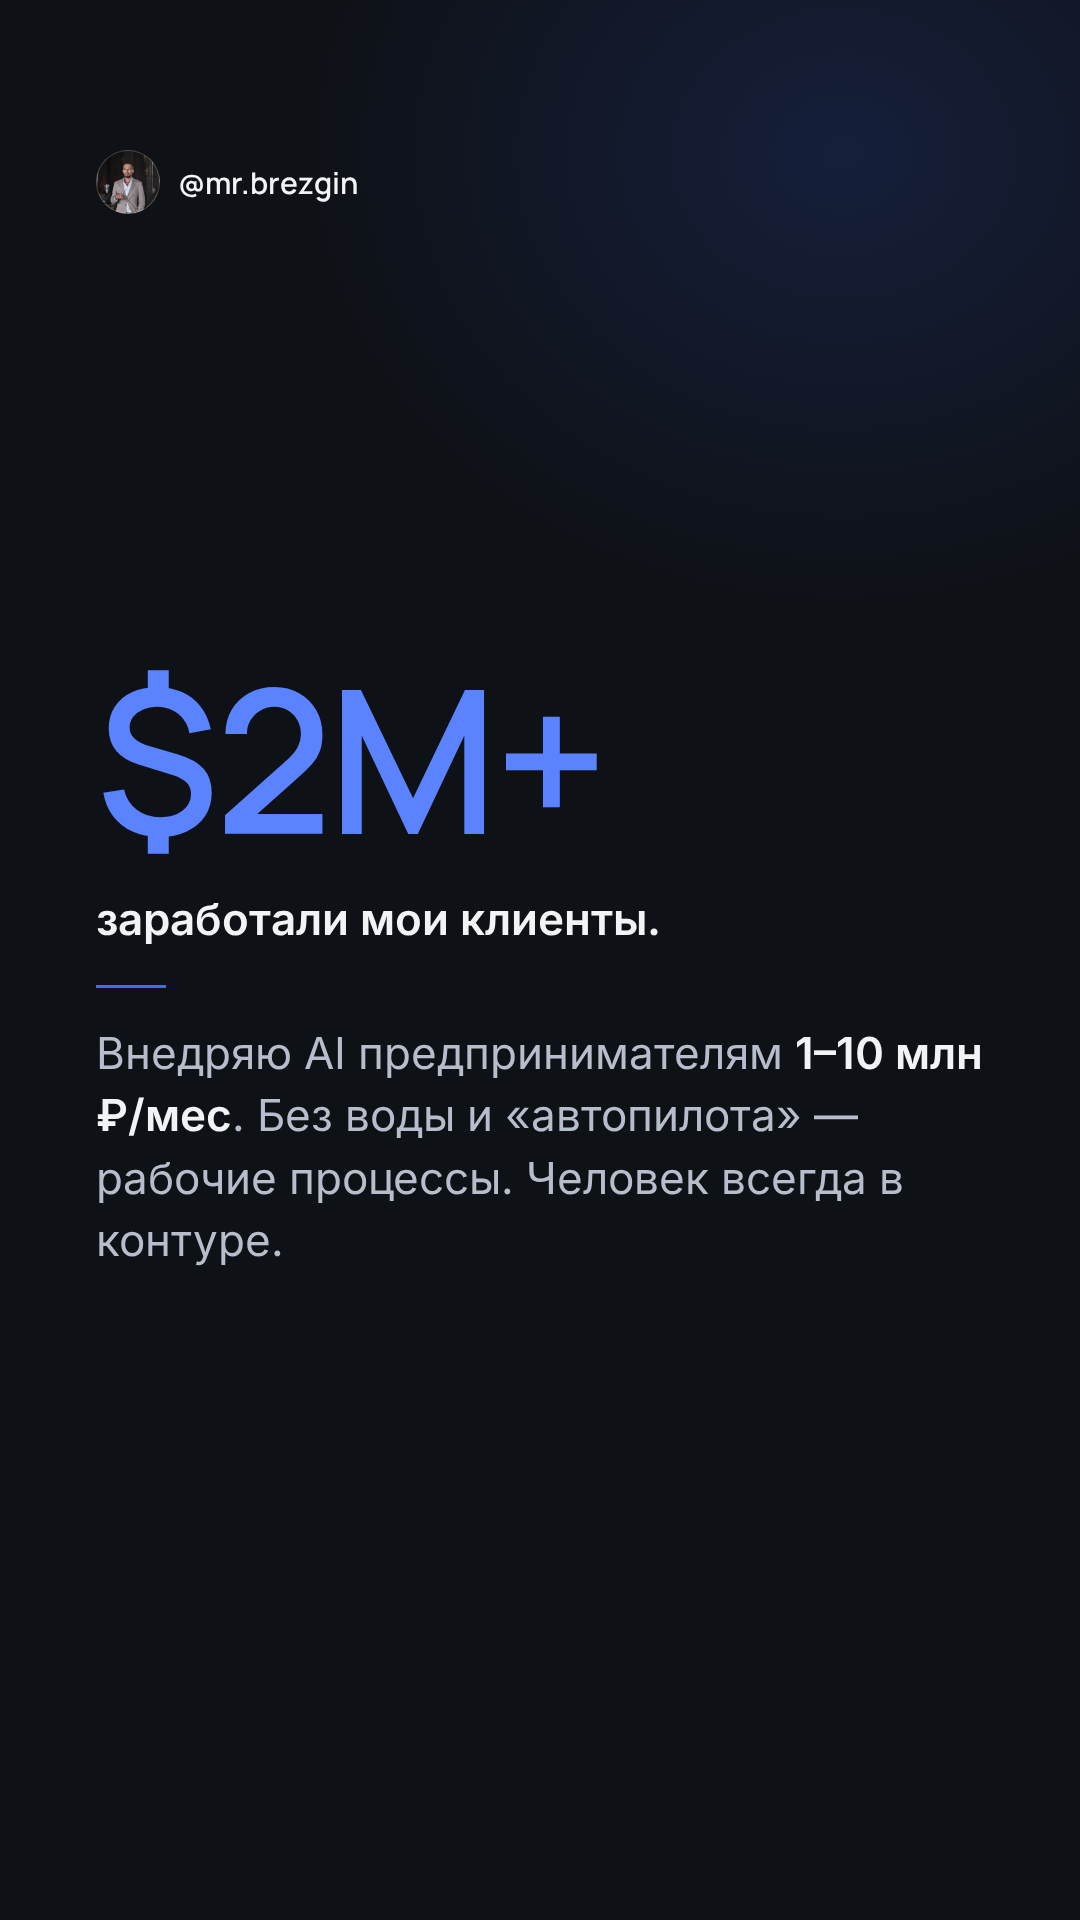
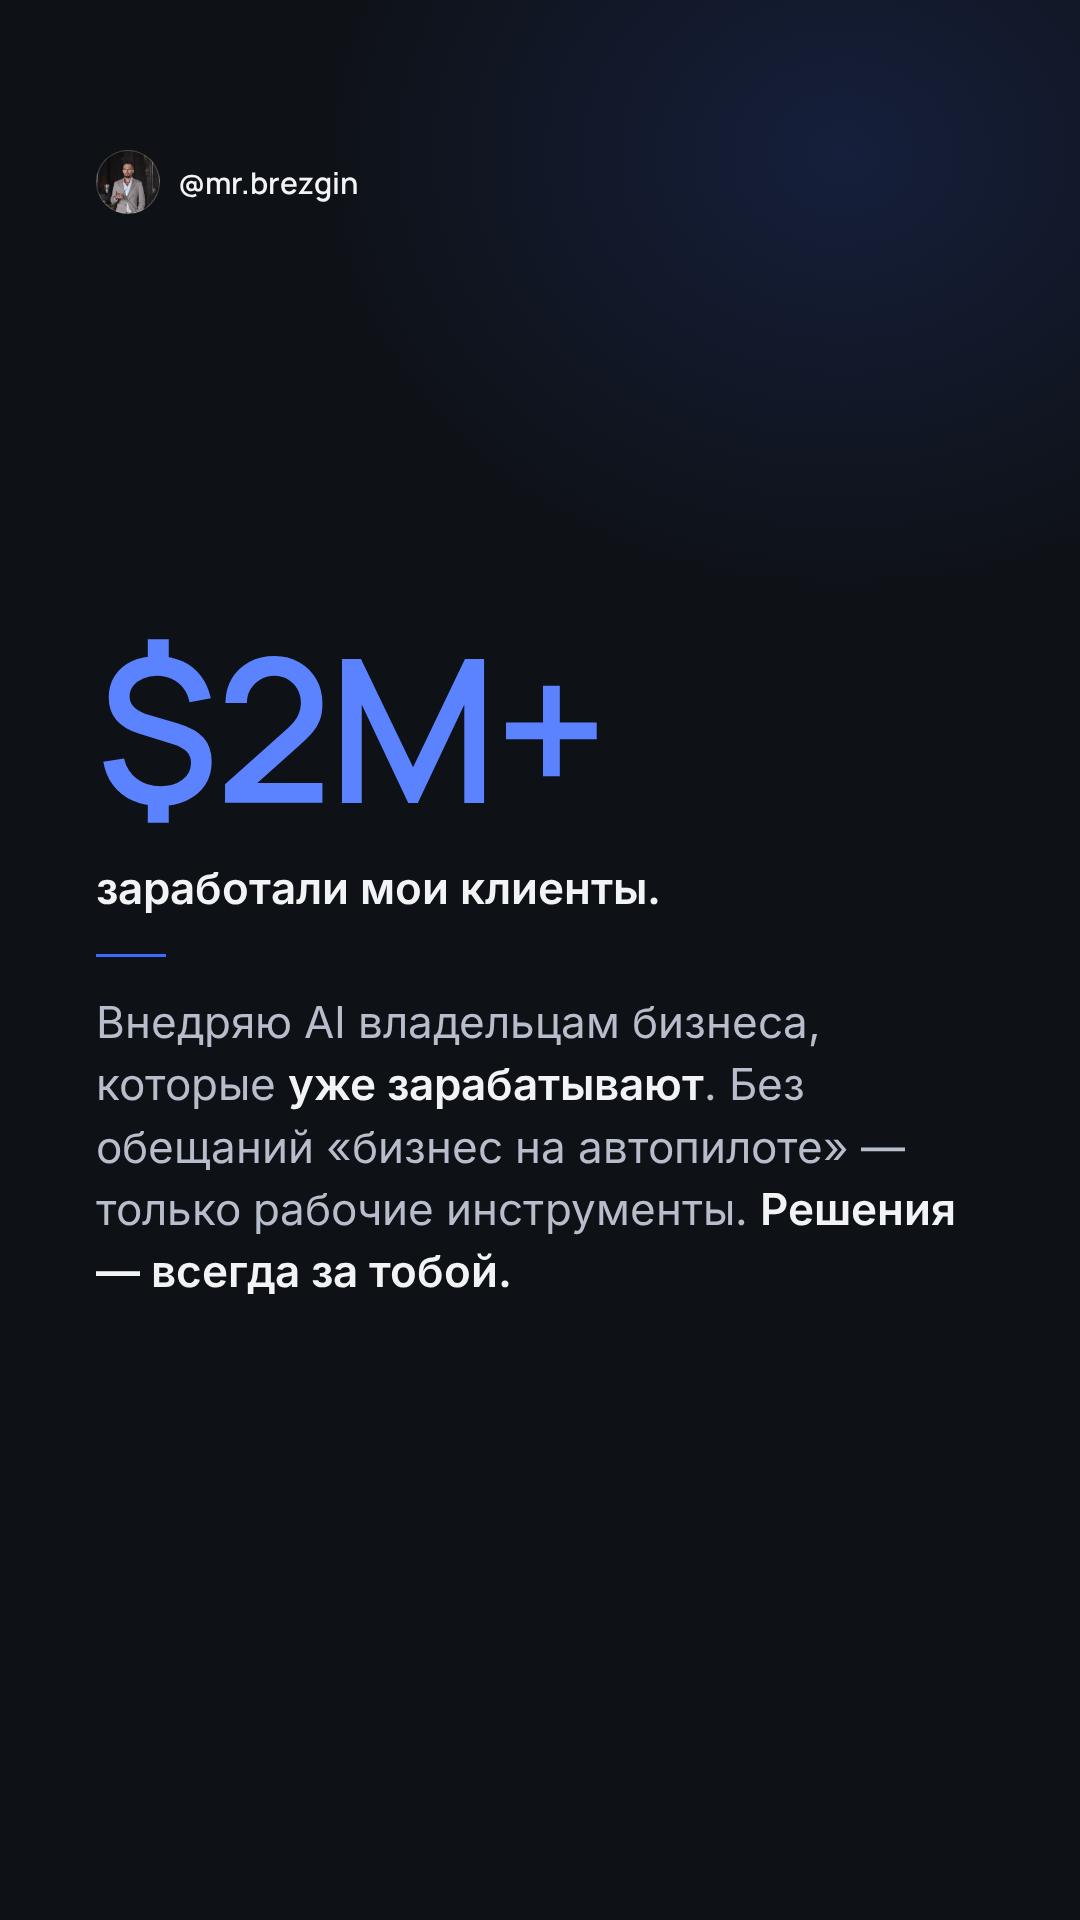
Stories ОБО МНЕ: обновлён текст $2M+ (владельцам бизнеса / без автопилота / решения за тобой)

Changed region(s): [[0.0917, 0.3125, 0.9167, 0.6875]]

diff --git a/stories.html b/stories.html
@@ -23,7 +23,7 @@ a{color:#5b82ff}.lk{display:block;text-align:center;margin-top:22px;font-size:13
 <a class="lk" href="./highlights.html">← обложки хайлайтов</a>
 <div id="lb" onclick="this.classList.remove('on')"><img id="li"></div>
 <script>
-const V='?v=20260624st3';
+const V='?v=20260624st4';
 function fill(id,files){const r=document.getElementById(id);files.forEach(f=>{const p='stories/'+f+'.png'+V;const im=new Image();im.src=p;im.onclick=()=>{document.getElementById('li').src=p;document.getElementById('lb').classList.add('on')};r.appendChild(im);});}
 fill('about',['about-1','about-2','about-3']);
 fill('system',['system-1','system-2','system-3']);